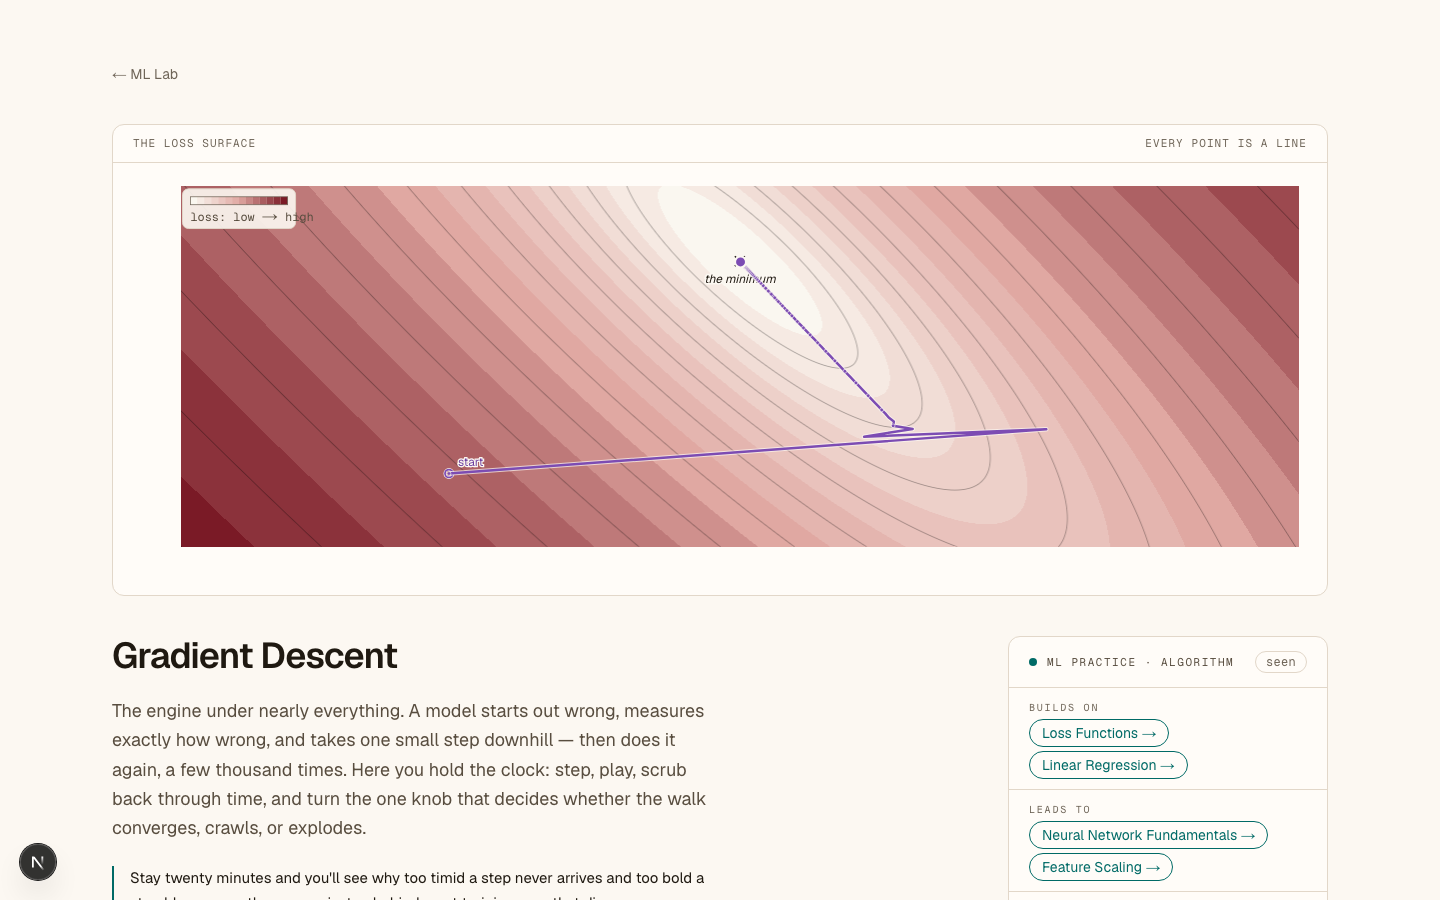
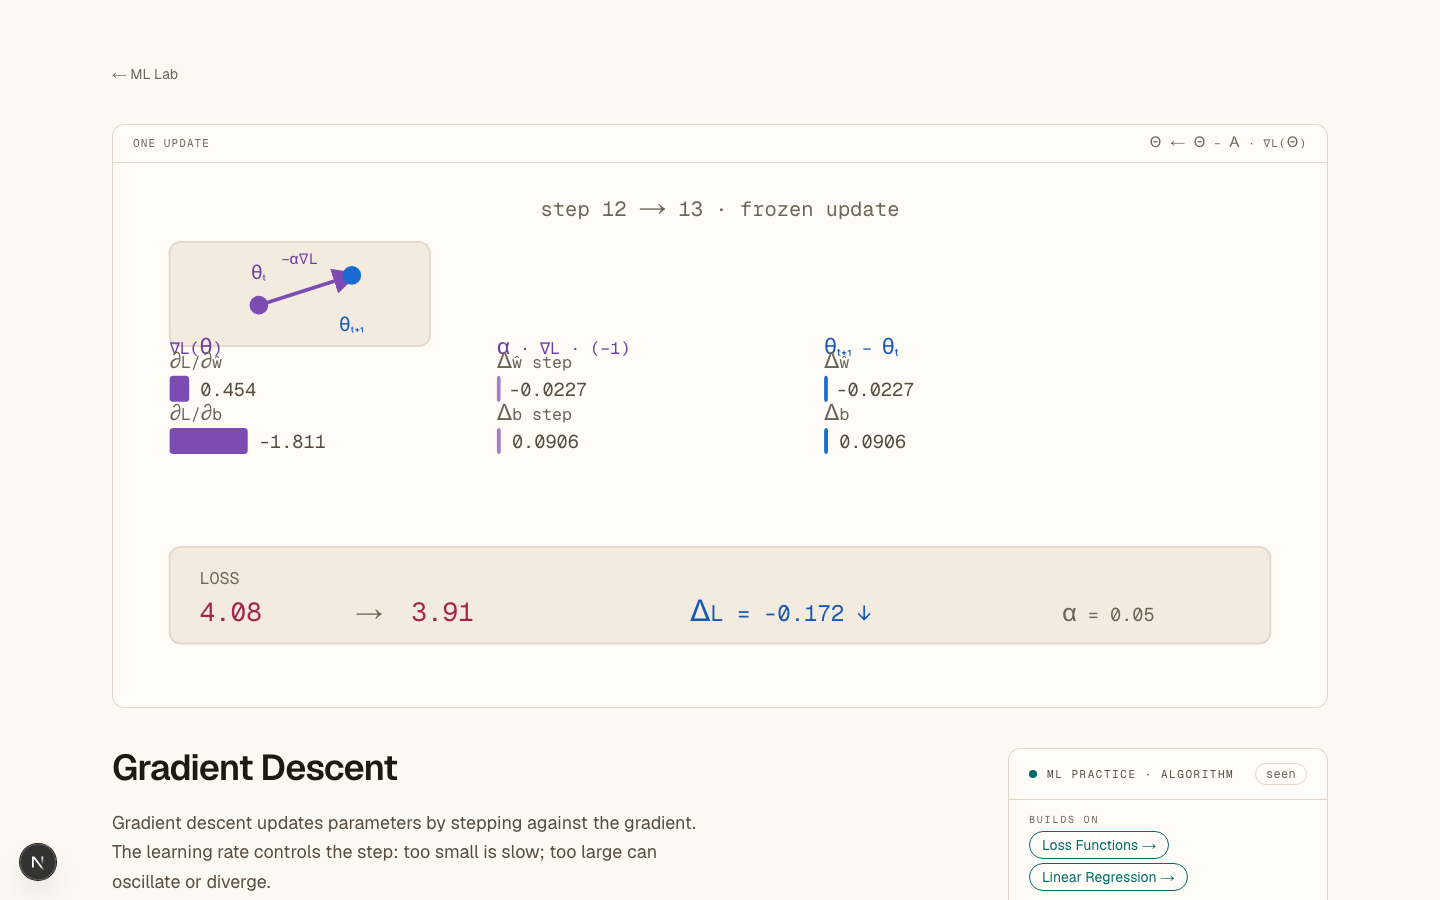
Wire act handoff into labs and refresh visual regression snapshots.
Seed gradient-descent and train-test Run-it from See-it story frames, adopt CausalTrace on regularization hero, and update Playwright screenshots for the homepage and revised exhibit heroes.

diff --git a/src/components/exhibits/RegularizationHero.tsx b/src/components/exhibits/RegularizationHero.tsx
@@ -9,6 +9,7 @@ import {
   ridgeFitCheb,
   type ChebModel,
 } from "@/lib/models/polynomial";
+import { CausalTrace } from "@/components/viz/primitives";
 import { REG_DEGREE } from "@content/exhibits/overfitting-regularization/experiment";
 import fixtures from "@/lib/models/fixtures/polynomial.json";
 import type { Point } from "@/lib/models/linear-regression";
@@ -135,7 +136,6 @@ export function RegularizationHero() {
 
   const scrubLambda = LAMBDA_LOW * Math.pow(LAMBDA_HIGH / LAMBDA_LOW, lambdaT);
   const scrubModel = useMemo(() => ridgeFitCheb(TRAIN, REG_DEGREE, scrubLambda), [scrubLambda]);
-  const scrubTrain = useMemo(() => chebMSE(TRAIN, scrubModel), [scrubModel]);
   const scrubTest = useMemo(() => chebMSE(TEST, scrubModel), [scrubModel]);
 
   const panels = useMemo(
@@ -204,9 +204,24 @@ export function RegularizationHero() {
             />
             <span className="shrink-0 font-mono text-[10px] tracking-wide text-ink-faint uppercase">λ high</span>
           </label>
-          <p className="mt-2 text-center font-mono text-[10px] text-ink-faint">
-            causal chain: λ ↑ → weights shrink → curve smooths → train {scrubTrain.toFixed(2)} · test {scrubTest.toFixed(2)}
-          </p>
+          <CausalTrace
+            steps={[
+              { id: "lambda", label: "λ ↑", hue: "param" },
+              { id: "weights", label: "weights shrink", hue: "param" },
+              { id: "curve", label: "curve smooths", hue: "prediction" },
+              { id: "error", label: `test ${scrubTest.toFixed(2)}`, hue: "error" },
+            ]}
+            activeStepId={
+              lambdaT < 0.25
+                ? "lambda"
+                : lambdaT < 0.55
+                  ? "weights"
+                  : lambdaT < 0.85
+                    ? "curve"
+                    : "error"
+            }
+            ariaLabel="Regularization causal chain from penalty to test error"
+          />
         </div>
       )}
       <div className="flex items-center justify-center gap-6 border-t border-line px-3 py-2 font-mono text-[11px] text-ink-faint">

diff --git a/src/components/exhibits/TrainTestLab.tsx b/src/components/exhibits/TrainTestLab.tsx
@@ -1,15 +1,17 @@
 "use client";
 
-import { useMemo, useState } from "react";
+import { useEffect, useMemo, useRef, useState } from "react";
 import { Axes, DataPoints, Plot, usePlot } from "@/components/viz/Plot";
 import { PolyCurve } from "@/components/viz/PolyCurve";
 import { StatGrid } from "@/components/viz/StatGrid";
 import { ErrorSpreadStrip } from "@/components/exhibits/ErrorSpreadStrip";
+import { useActHandoffFrame } from "@/components/exhibits/ActHandoffContext";
 import { useLearner, whenHydrated } from "@/lib/learner/store";
 import type { Point } from "@/lib/models/linear-regression";
 import { predictPoly } from "@/lib/models/polynomial";
 import { kFoldCV, scoreSplit, splitPoints } from "@/lib/models/generalization";
 import { pooledPoints, TT_DEGREE, TT_LAMBDA, trainTestScenario } from "@content/exhibits/train-test-generalization/experiment";
+import type { TrainTestFrame } from "@content/exhibits/train-test-generalization/spine";
 
 /**
  * Train/test bench: one pool of points, split live. The model is fit on the gold
@@ -33,10 +35,25 @@ function TestPoints({ points }: { points: Point[] }) {
 }
 
 export function TrainTestLab() {
+  const storyFrame = useActHandoffFrame<TrainTestFrame>();
+  const appliedHandoff = useRef(false);
   const [seed, setSeed] = useState(1);
   const [history, setHistory] = useState<number[]>([]);
   const split = useMemo(() => splitPoints(pooledPoints, TEST_FRAC, seed), [seed]);
   const score = useMemo(() => scoreSplit(split, TT_DEGREE, TT_LAMBDA), [split]);
+
+  // Seed Run-it histogram from the See-it story stage when the learner advances.
+  useEffect(() => {
+    if (appliedHandoff.current || !storyFrame || storyFrame.stage === "split") return;
+    appliedHandoff.current = true;
+    const seeds = storyFrame.stage === "cv" ? [1, 2, 3, 4, 5, 6, 7, 8] : [1, 2, 3, 4, 5];
+    setHistory(
+      seeds.map(
+        (s) => scoreSplit(splitPoints(pooledPoints, TEST_FRAC, s), TT_DEGREE, TT_LAMBDA).testErr,
+      ),
+    );
+    setSeed(seeds[seeds.length - 1]!);
+  }, [storyFrame]);
 
   // Seed the history with the first split (adjust during render, no effect needed).
   const [seenSeed, setSeenSeed] = useState<number | null>(null);
@@ -66,6 +83,7 @@ export function TrainTestLab() {
 
           <StatGrid
             direction="col"
+            className={storyFrame?.stage === "split" ? "chrome-redundant-metrics" : undefined}
             caption={`${split.train.length} train · ${split.test.length} validation · ${history.length} splits drawn`}
             stats={[
               { label: "training error", value: score.trainErr.toFixed(3), hue: "var(--viz-neutral-ink)", note: "on data it has seen — flatters" },

diff --git a/src/components/exhibits/GradientDescentLab.tsx b/src/components/exhibits/GradientDescentLab.tsx
@@ -6,8 +6,10 @@ import { LossSurface } from "@/components/viz/LossSurface";
 import { ParamSlider } from "@/components/viz/ParamSlider";
 import { TrainingCurve } from "@/components/viz/TrainingCurve";
 import { StatGrid } from "@/components/viz/StatGrid";
+import { useActHandoffFrame } from "@/components/exhibits/ActHandoffContext";
 import { GradientDescentMicroscope } from "@/components/exhibits/GradientDescentMicroscope";
 import { ScenarioBar } from "@/components/exhibits/ScenarioBar";
+import type { GradientDescentFrame } from "@content/exhibits/gradient-descent/spine";
 import { reportTaskEvent } from "@/lib/assessment/task-events";
 import { createExperimentStore } from "@/lib/experiment/store";
 import { useLearner, whenHydrated } from "@/lib/learner/store";
@@ -62,6 +64,8 @@ export function GradientDescentLab() {
   const { points, params, scenarioId, spec, setParam, loadScenario, reset } =
     useExperiment();
   const learningRate = params.learningRate;
+  const storyFrame = useActHandoffFrame<GradientDescentFrame>();
+  const appliedHandoff = useRef(false);
 
   const runRef = useRef<GradientDescentRun | null>(null);
   const lrRef = useRef(learningRate);
@@ -86,6 +90,16 @@ export function GradientDescentLab() {
     lrRef.current = learningRate;
     runRef.current?.setLearningRate(learningRate);
   }, [learningRate]);
+
+  // Seed Run-it from the See-it story's final frame (scenario, view, microscope).
+  useEffect(() => {
+    if (appliedHandoff.current || !storyFrame) return;
+    if (!spec.scenarios.some((s) => s.id === storyFrame.scenarioId)) return;
+    appliedHandoff.current = true;
+    loadScenario(storyFrame.scenarioId);
+    if (storyFrame.microscope) setView("microscope");
+    else setView(storyFrame.view);
+  }, [storyFrame, loadScenario, spec.scenarios]);
 
   // A new dataset identity (scenario load or reset) means a new loss surface:
   // start a fresh run from step 0. The learning rate is read through a ref so

diff --git a/src/components/exhibits/DataLeakageProvenancePipe.tsx b/src/components/exhibits/DataLeakageProvenancePipe.tsx
@@ -3,10 +3,9 @@
 import { useEffect, useId, useState } from "react";
 
 /**
- * Provenance pipe — the data-leakage protagonist. Rows flow through feature
- * selection, cross a train/test wall, and land in a CV score. In the leaky
- * pipeline forbidden test-side information visibly crosses the wall back into
- * selection and inflates R²; sealing the boundary (honest mode) cleans the pipe.
+ * Data-leakage provenance pipe — exhibit-specific SVG implementing the
+ * {@link ProvenancePipe} visual-argument pattern (train/test wall, boundary
+ * violation, contaminated score readout).
  */
 
 const W = 680;

diff --git a/src/components/viz/StatGrid.tsx b/src/components/viz/StatGrid.tsx
@@ -23,15 +23,18 @@ export function StatGrid({
   stats,
   caption,
   direction = "row",
+  className,
 }: {
   stats: Stat[];
   /** Optional label for the whole strip, e.g. "Least-squares estimate". */
   caption?: string;
   /** "row" = a horizontal strip (under a plot); "col" = a stacked table (a side rail). */
   direction?: "row" | "col";
+  /** Optional wrapper class — e.g. `chrome-redundant-metrics` when See-it already showed these numbers. */
+  className?: string;
 }) {
   return (
-    <div>
+    <div className={className}>
       {caption && (
         <p className="mb-2 font-mono text-[11px] tracking-widest text-ink-faint uppercase">
           {caption}